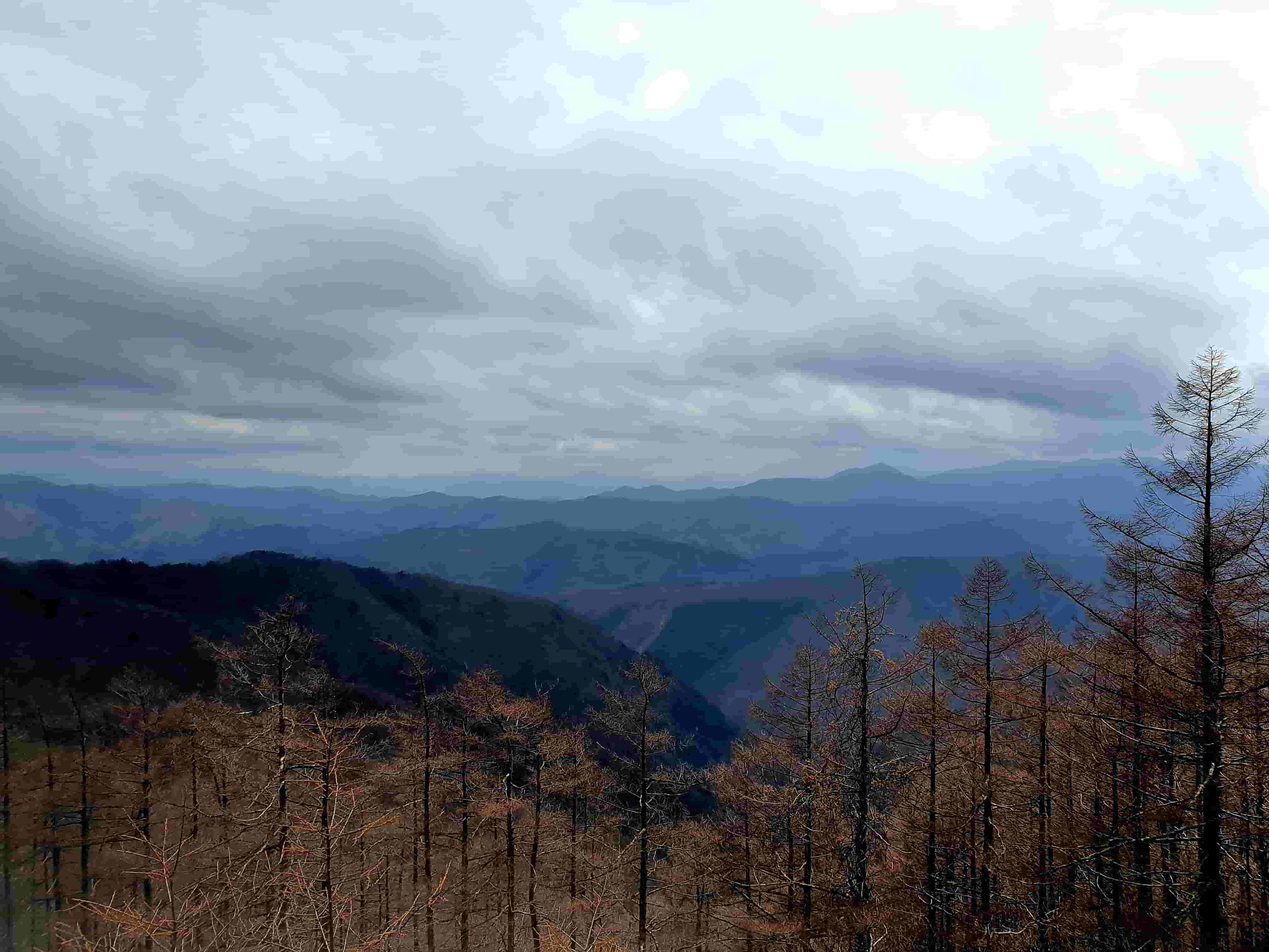
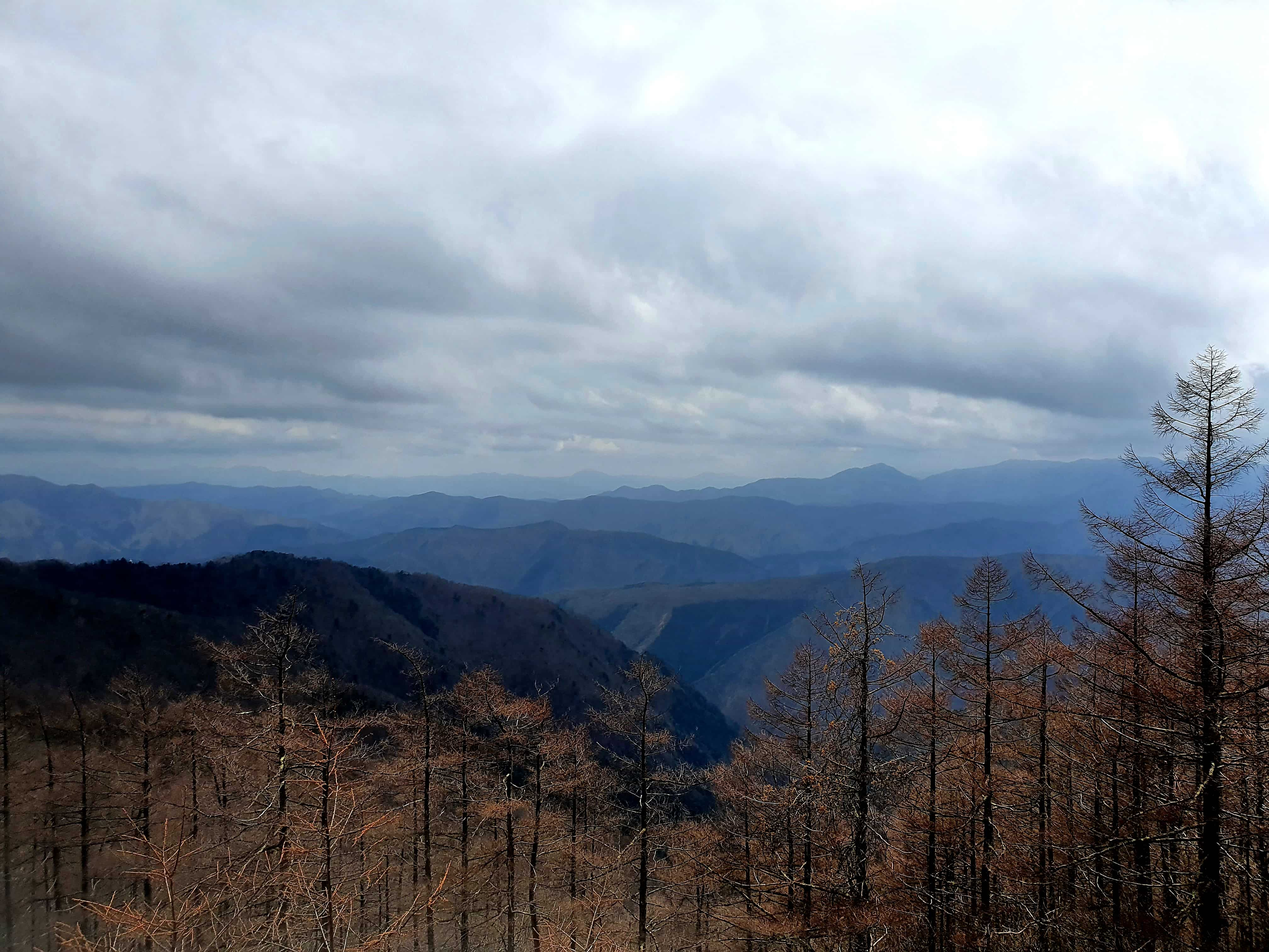
added more stuff

Changed region(s): [[0.0625, 0.373, 1.0, 1.0], [0.3125, 0.6839, 0.3438, 0.7149]]

diff --git a/index.html b/index.html
@@ -130,7 +130,7 @@
                             <p>I love to explore new sceneries. Not just for the photo ops, but also the process of overcoming physical and mental challenges along the way.</p>
                             <p>This photo was taken from Mount. Kumotori in Tokyo, standing 2,017 metres. Truly interesting things happened when the oxygen concentration reached 80 percent of what we usually breathe...</p>
                         </div>
-                        <img class="sc" alt="View from Mount. Kumotori" src="img/kumo-min.jpg">
+                        <img class="sc" alt="View from Mount. Kumotori" src="img/kumo.jpg">
                     </div>
                 </section>
                 <section class="container sc" id="first-quote">
